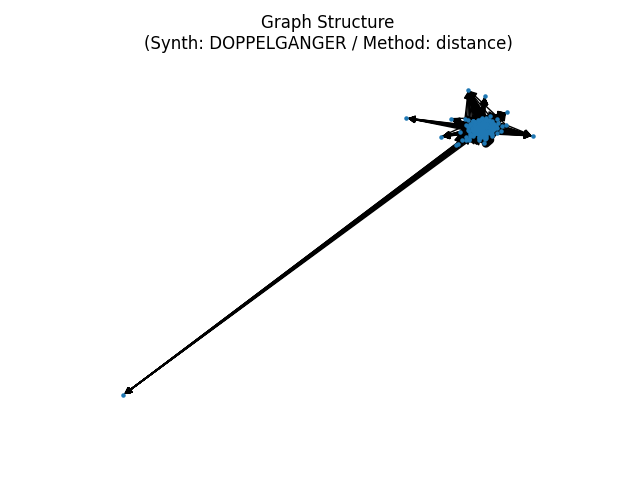
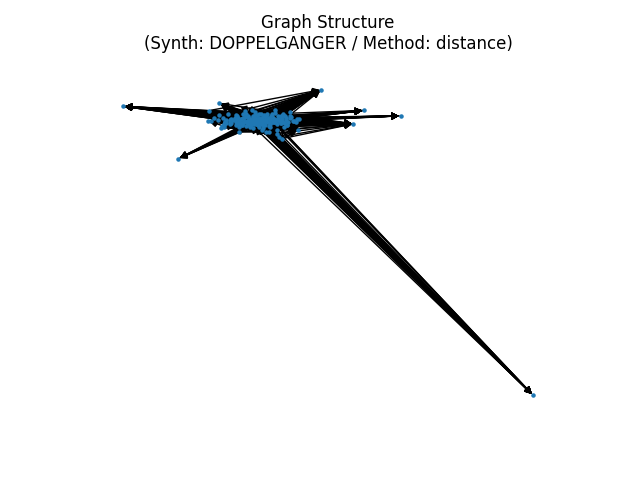
updated IBM Synth Graph Evaluation

diff --git a/evaluation/IbmSynth/03_evaluation_EvaluateModels.py b/evaluation/IbmSynth/03_evaluation_EvaluateModels.py
@@ -49,6 +49,8 @@ for model in models:
     # Evaluate Privacy
     real_data_oh = pd.DataFrame()
     synthetic_data_oh = pd.DataFrame()
+    cat_cols = [column_name for column_name, sdtype in metadata.columns.items() if sdtype["sdtype"] == "categorical"]
+    cont_cols = [column_name for column_name, sdtype in metadata.columns.items() if sdtype["sdtype"] != "categorical"]
     for column_name, sdtype in metadata.columns.items():
         if sdtype["sdtype"] == 'categorical':
             ohe = OneHotEncoder()
@@ -57,19 +59,21 @@ for model in models:
             temp = pd.DataFrame(ohe.transform(synthetic_data[column_name].values.reshape(-1, 1)).todense(), columns=["{}_{}".format(column_name, i) for i in range(real_data[column_name].nunique())], index=synthetic_data.index)
             synthetic_data_oh = pd.concat((synthetic_data_oh, temp), axis= 1)
         else:
-            real_data_oh = pd.concat((real_data_oh, real_data[[column_name]]), axis= 1)
-            synthetic_data_oh = pd.concat((synthetic_data_oh, synthetic_data[[column_name]]), axis= 1)
+            scaler = StandardScaler()
+            real_data_oh = pd.concat((real_data_oh, pd.DataFrame(scaler.fit_transform(real_data[[column_name]]), columns= [column_name], index= real_data.index)), axis= 1)
+            synthetic_data_oh = pd.concat((synthetic_data_oh, pd.DataFrame(scaler.transform(synthetic_data[[column_name]]), columns= [column_name], index= synthetic_data.index)), axis= 1)
+    cat_cols = list(set(real_data_oh.columns) - set(cont_cols))
     scaler = StandardScaler()
-    real_data_scaled = pd.DataFrame(scaler.fit_transform(real_data_oh), columns=real_data_oh.columns)
-    synthetic_data_scaled = pd.DataFrame(scaler.transform(synthetic_data_oh), columns=synthetic_data_oh.columns)
     sample_size = 100
     i = 0
     min_distances = np.array([])
     second_min_distances = np.array([])
-    while i < synthetic_data_scaled.shape[0]:
+    while i < synthetic_data_oh.shape[0]:
         # Calculate the Euclidean distances
-        synthetic_data_chunk = synthetic_data_scaled.iloc[i:i + sample_size]
-        distances = cdist(synthetic_data_chunk.values, real_data_scaled.values, metric='euclidean')
+        synthetic_data_chunk = synthetic_data_oh.iloc[i:i + sample_size]
+        distances_euclidean = cdist(synthetic_data_chunk[cont_cols].values, real_data_oh[cont_cols].values, metric='euclidean')
+        distances_hamming = cdist(synthetic_data_chunk[cat_cols].values, real_data_oh[cat_cols].values, metric='hamming')
+        distances = (len(cont_cols) / len(metadata.columns)) * distances_euclidean + (len(cat_cols) / len(metadata.columns)) * distances_hamming
         min_values = np.min(distances, axis=1)
         # To find the second minimum value for each row, we can mask the minimum values and find the minimum of the remaining elements
         masked_distances = np.where(distances == min_values[:, None], np.inf, distances)

diff --git a/evaluation/IbmSynth/05_evaluation_EvaluateGraph.py b/evaluation/IbmSynth/05_evaluation_EvaluateGraph.py
@@ -48,13 +48,16 @@ results_df = pd.DataFrame()
 for model in models:
     for cluster_method in ["distance", "number"]:
         synthetic_data = pd.read_csv("./synth/{}_synthetic_data_graph_{}.csv".format(model, cluster_method))
-        if "source_id" in synthetic_data.columns:
+        if "source_id" in synthetic_data.columns and ("node_id_source" in synthetic_data.columns or "node_id_y" in synthetic_data):
             synthetic_data = synthetic_data.drop(columns=["source_id"])
+        if "node_id_x" in synthetic_data.columns and "node_id_y" in synthetic_data.columns:
             synthetic_data = synthetic_data.rename(columns= {"node_id_x": "source_id", "node_id_y": "target_id"})
-        elif "node_id" in synthetic_data.columns:
+        elif "node_id" in synthetic_data.columns and "node_id_source" in synthetic_data.columns:
             synthetic_data = synthetic_data.rename(columns={"node_id_source": "source_id", "node_id": "target_id"})
-        else:
+        elif "node_id_source" in synthetic_data.columns and "node_id_target" in synthetic_data.columns:
             synthetic_data = synthetic_data.rename(columns={"node_id_source": "source_id", "node_id_target": "target_id"})
+        else:
+            pass
 
         # create networkx graphs based on the data
         synthetic_data = synthetic_data.loc[~(synthetic_data["source_id"] == synthetic_data["target_id"])]
@@ -85,7 +88,7 @@ for model in models:
         # score deltacon0
         deltacon0_distance = deltacon0(nx.adjacency_matrix(real_graph), nx.adjacency_matrix(synthetic_graph))
 
-        results_df = results_df.append({"Model": model, "NetSimile": netsimile_distance, "DeltaCon0": deltacon0_distance}, ignore_index=True)
+        results_df = pd.concat((results_df, pd.DataFrame({"Model": model, "Method": cluster_method, "NetSimile": netsimile_distance, "DeltaCon0": deltacon0_distance}, index=  [model + "_" + cluster_method])), axis= 0)
         results_df.to_excel("./results/evaluation_graph.xlsx", index=False)
 
     results_df.to_excel("./results/evaluation_graph.xlsx", index=False)

diff --git a/evaluation/IbmSynth/04_evaluation_RebuildGraph.py b/evaluation/IbmSynth/04_evaluation_RebuildGraph.py
@@ -103,7 +103,11 @@ for model in models:
         synthetic_nodes_number = synthetic_nodes
         synthetic_nodes_number["node_id"] = kms.predict(synthetic_nodes_number)
 
-        synthetic_data_graph_number = synthetic_data.merge(synthetic_nodes_number, left_on=["target_id_{}".format(i) for i in range(6)], right_on=["id_{}".format(i) for i in range(6)], how="left", suffixes=("", "_target"))
-        synthetic_data_graph_number = synthetic_data_graph_number.merge(synthetic_nodes_number, left_on=["source_id_{}".format(i) for i in range(6)], right_on=["id_{}".format(i) for i in range(6)], how="left", suffixes=("", "_source"))
+        if "source_id" in synthetic_data.columns:
+            synthetic_data = synthetic_data.drop(columns= ["source_id"])
+        synthetic_nodes_number = synthetic_nodes_number.rename(columns= dict(zip(["id_{}".format(i) for i in range(6)] + ["node_id"], ["target_id_{}".format(i) for i in range(6)] + ["target_id"])))
+        synthetic_data_graph_number = synthetic_data.merge(synthetic_nodes_number, on=["target_id_{}".format(i) for i in range(6)], how="left", suffixes=("", "_target"))
+        synthetic_nodes_number = synthetic_nodes_number.rename(columns=dict(zip(["target_id_{}".format(i) for i in range(6)] + ["target_id"], ["source_id_{}".format(i) for i in range(6)] + ["source_id"])))
+        synthetic_data_graph_number = synthetic_data_graph_number.merge(synthetic_nodes_number, on=["source_id_{}".format(i) for i in range(6)], how="left", suffixes=("", "_source"))
 
         synthetic_data_graph_number.to_csv("./synth/{}_synthetic_data_graph_number.csv".format(model), index=False)
